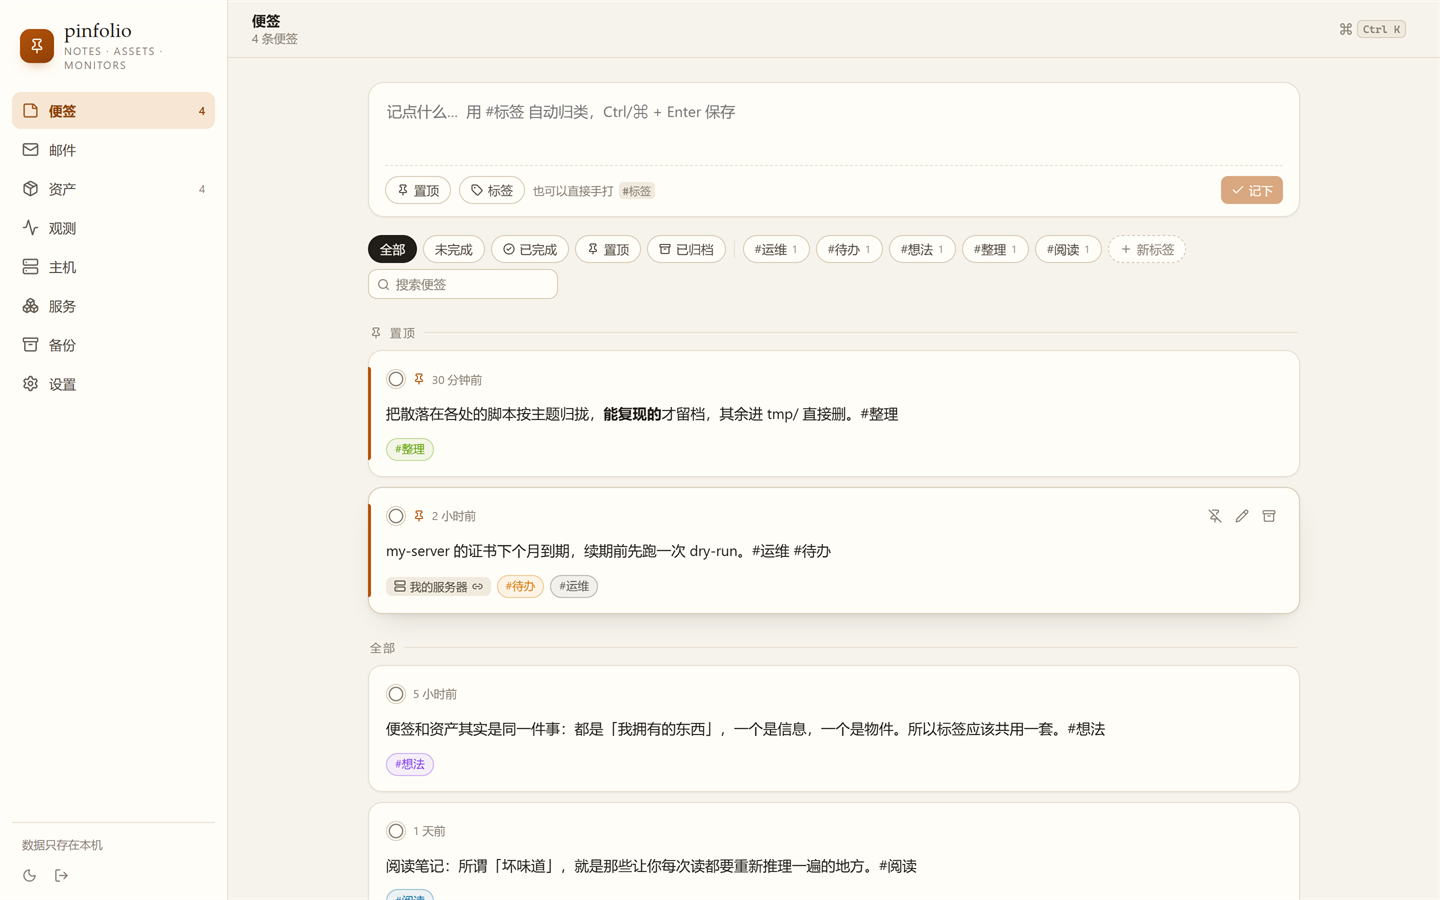
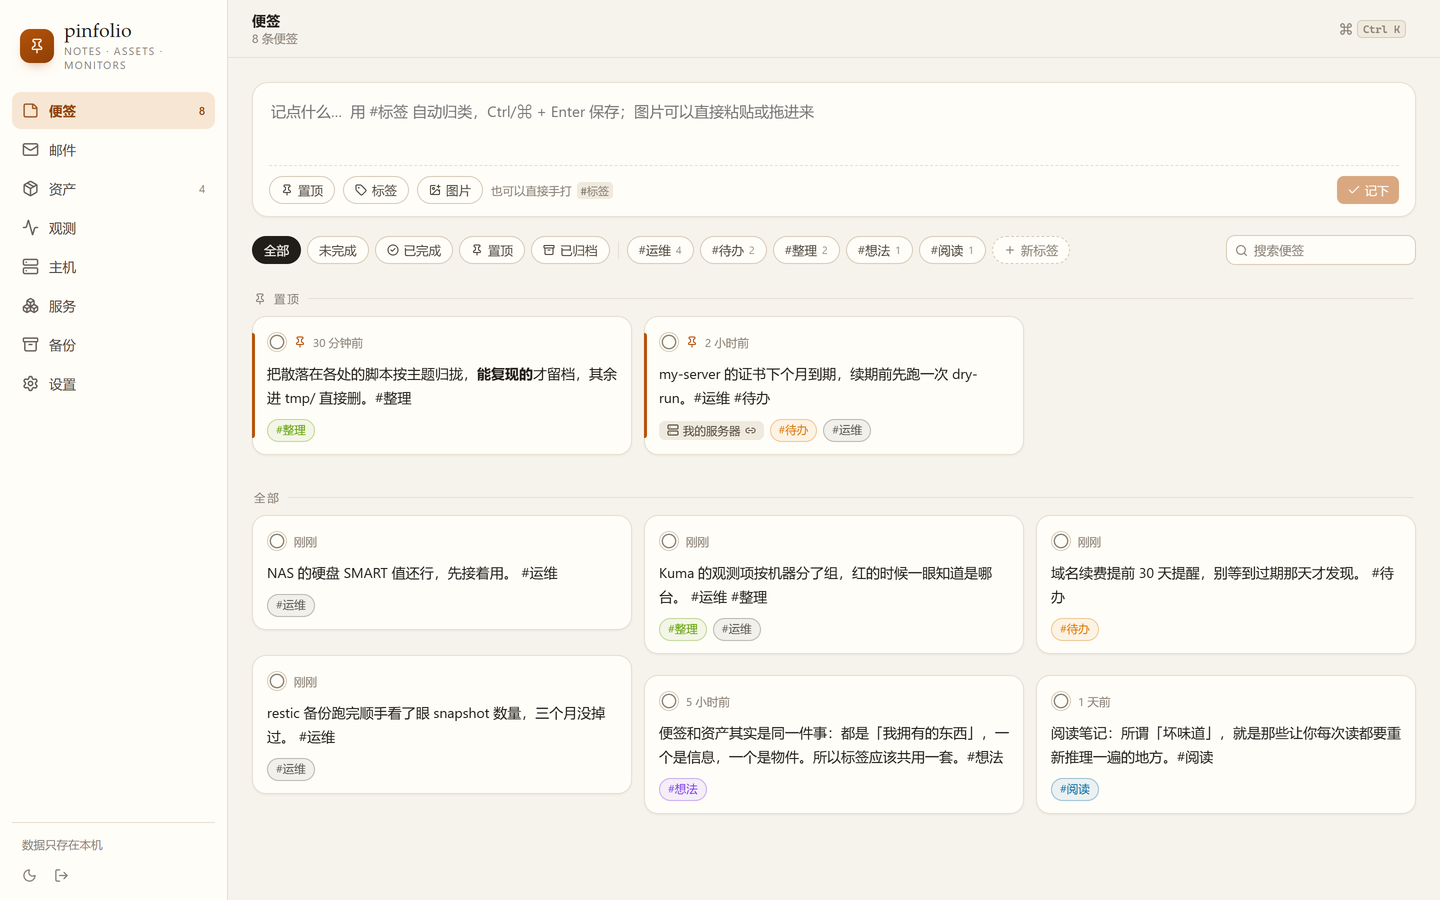
docs: refresh the README screenshots and fix the e2e suite count
The screenshots still showed the 0.3.0 single-column note list -- no masonry,
no image button, no language switch in settings. Regenerated with
tools/screenshots/demo-shots.mjs against a seeded isolated instance
(PORT=7791 + POST /api/seed + services.example.json), plus four extra sample
notes so the masonry fills the frame; downscaled 2x -> 1x as before.

Also: the repo has 17 e2e suites (13 core + 4 monitor), not 15.

diff --git a/README.zh.md b/README.zh.md
@@ -162,7 +162,7 @@ pinfolio/
 │  ├─ secrets/                crypto、key、migrate（AES-256-GCM 静态加密）
 │  └─ routes/                 notes、assets、tags、fields、meta
 ├─ web/                        React 前端（pages/、components/、lib/、styles/、app/）
-├─ tests/                      unit/（node:test）+ 15 套 Playwright e2e + fakeimap/
+├─ tests/                      unit/（node:test）+ 17 套 Playwright e2e + fakeimap/
 ├─ docs/                       architecture、pitfalls、features、api、status-history……
 ├─ data/  dist/web/  tmp/  logs/   运行数据、构建产物、临时文件、日志
 └─ SNAPSHOT.md                 自动生成的数据快照（不要手改）

diff --git a/README.md b/README.md
@@ -161,7 +161,7 @@ pinfolio/
 │  ├─ secrets/                crypto, key, migrate (AES-256-GCM at rest)
 │  └─ routes/                 notes, assets, tags, fields, meta
 ├─ web/                        React frontend (pages/, components/, lib/, styles/, app/)
-├─ tests/                      unit/ (node:test) + 15 Playwright e2e suites + fakeimap/
+├─ tests/                      unit/ (node:test) + 17 Playwright e2e suites + fakeimap/
 ├─ docs/                       architecture, pitfalls, features, api, status-history, …
 ├─ data/  dist/web/  tmp/  logs/   runtime data, build output, scratch, logs
 └─ SNAPSHOT.md                 auto-generated data snapshot (do not edit)
